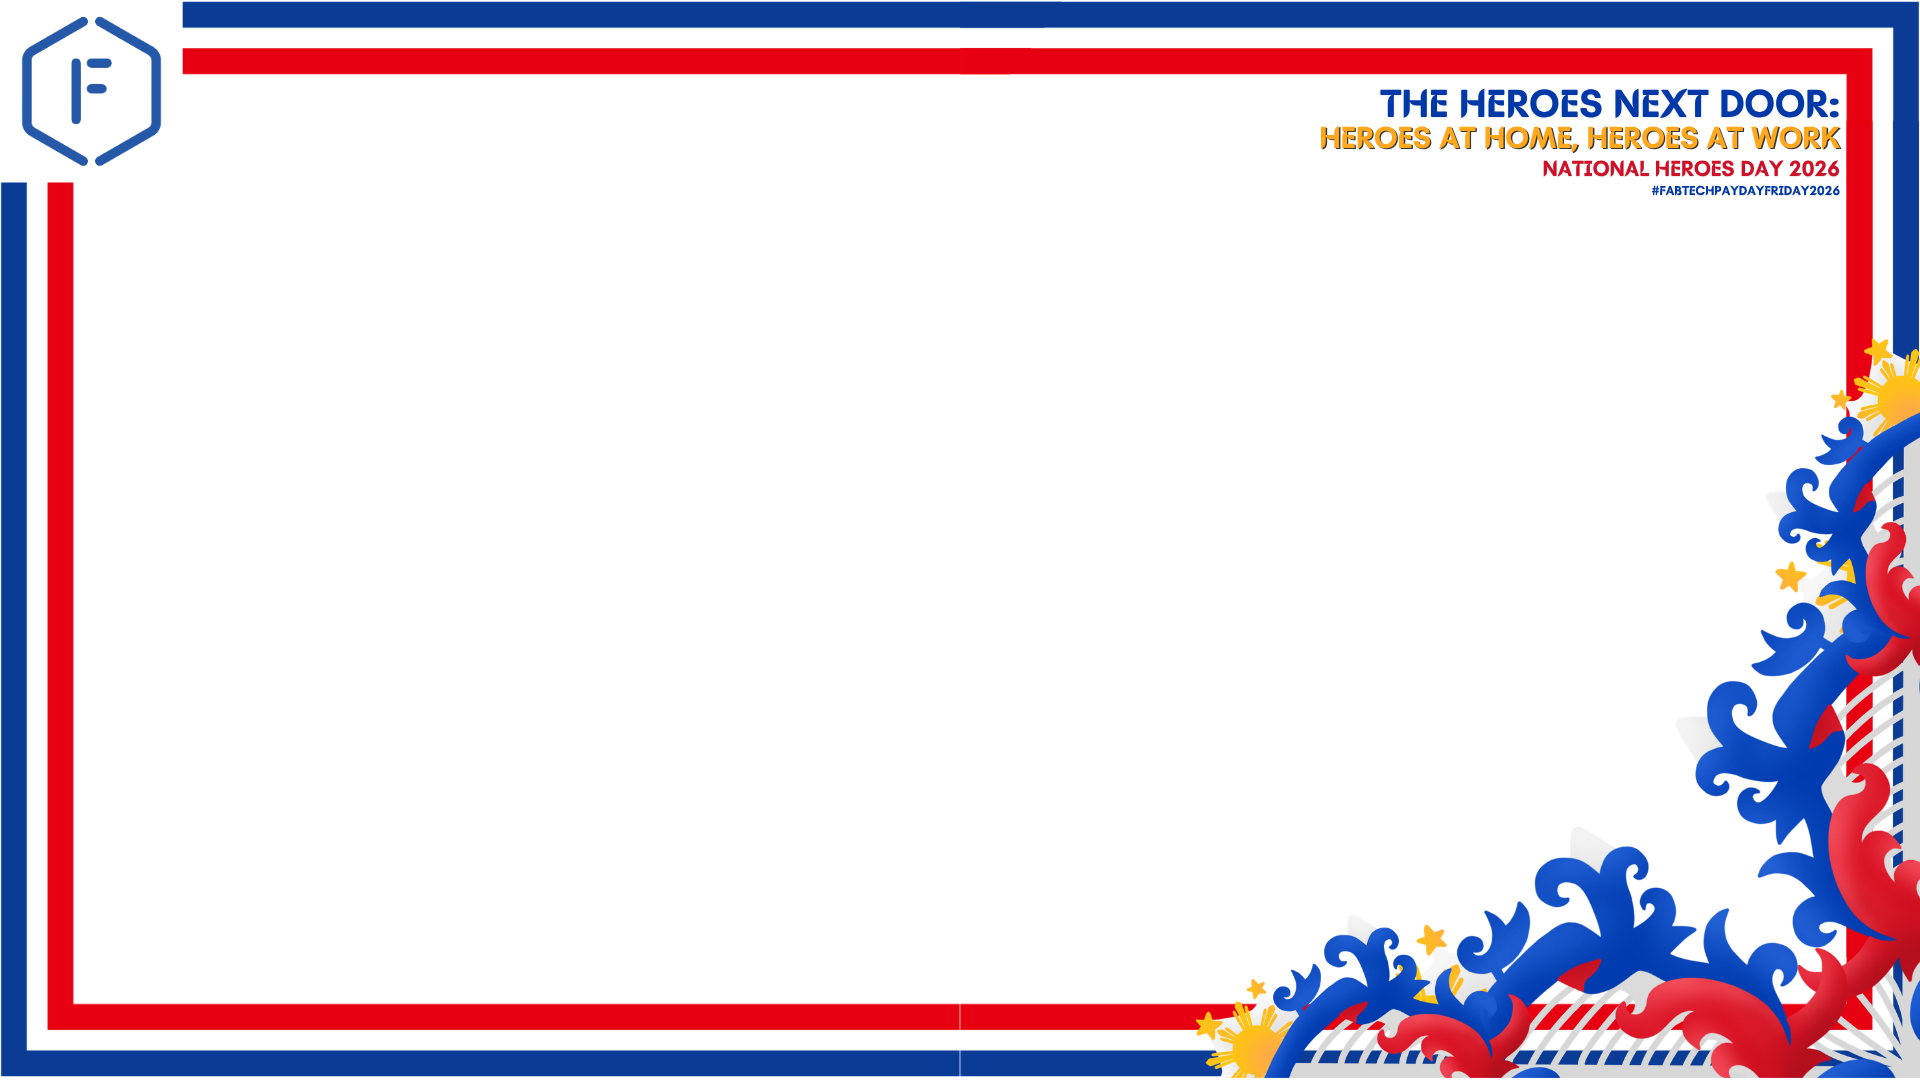
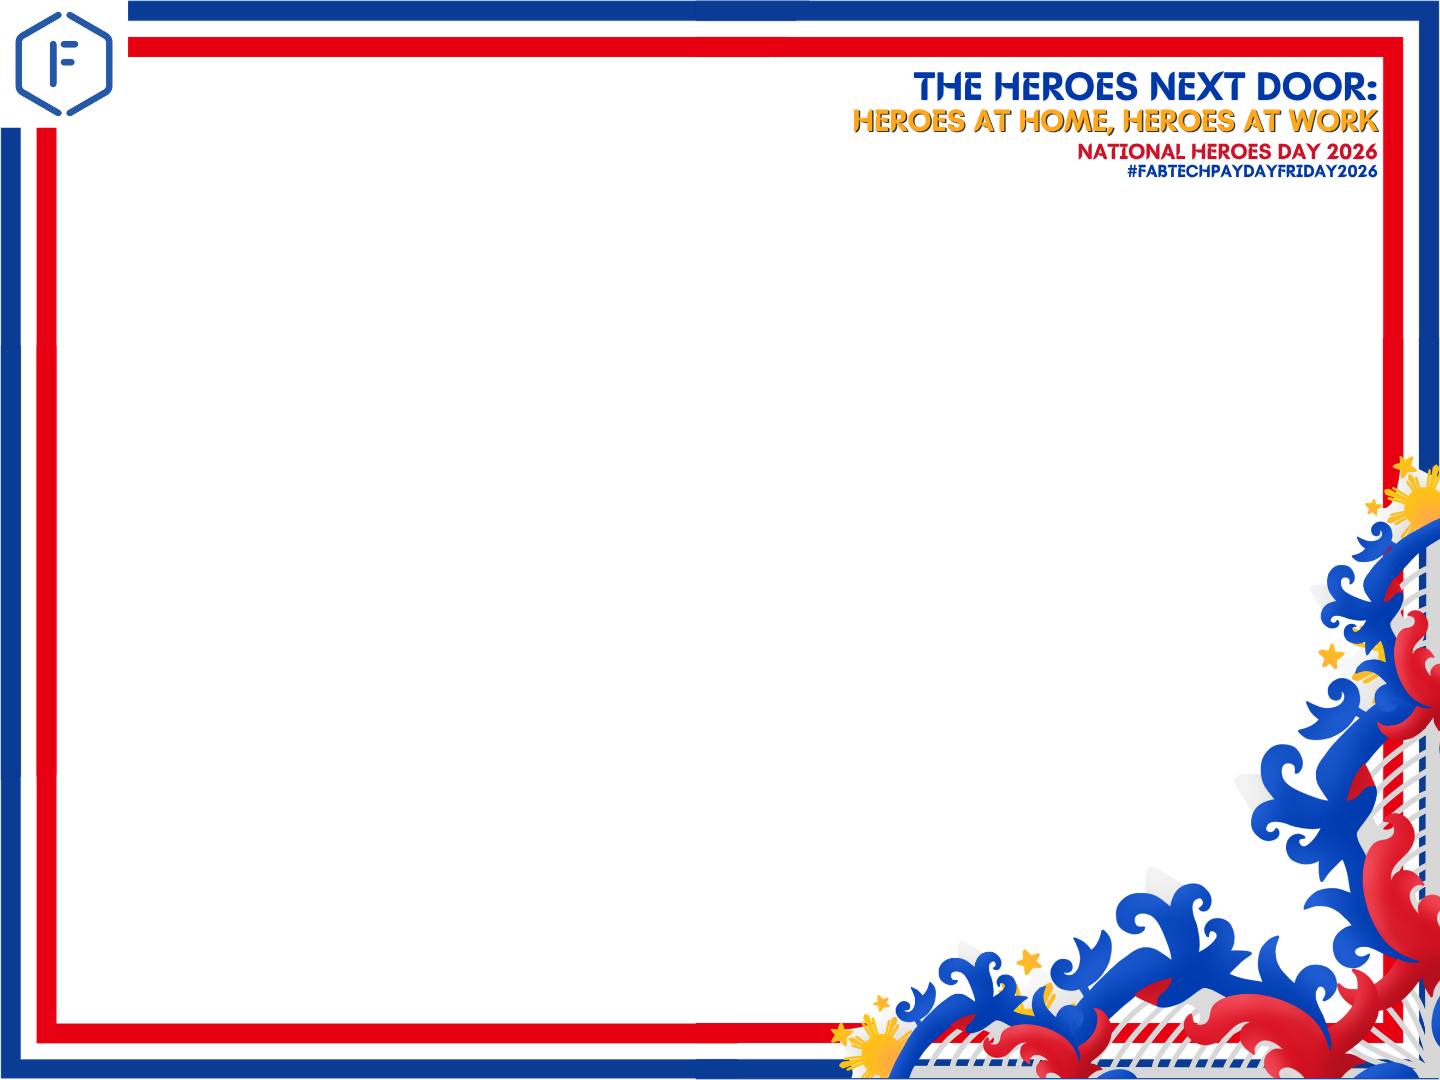
Simplify frame system and synchronize default frame state

Changed region(s): [[0.0, 0.3056, 1.0, 1.0], [0.0, 0.0, 1.0, 0.3056]]

diff --git a/js/script.js b/js/script.js
@@ -59,7 +59,6 @@ document.addEventListener("DOMContentLoaded", () => {
     const landscapeFrame = document.getElementById("landscapeFrame");
 
     const frameOverlays = {
-        square: squareFrame,
         portrait: portraitFrame,
         landscape: landscapeFrame
     };
@@ -87,6 +86,17 @@ document.addEventListener("DOMContentLoaded", () => {
             audio: false
         };
     }
+
+    // =====================================================
+    // Rendering Engine
+    // =====================================================
+    function calculateViewport(
+        videoWidth,
+        videoHeight,
+        frameMode
+    ) {
+    }
+
 
     function applyCameraMode() {
         const mode = getCurrentCameraMode();
@@ -150,25 +160,7 @@ document.addEventListener("DOMContentLoaded", () => {
     };
 
     const CAMERA_MODES = {
-        square: {
-            aspectRatio: "1 / 1",
-
-            viewport: {
-                width: 1,
-                height: 1
-            },
-
-            capture: {
-                width: 1080,
-                height: 1080
-            },
-
-            camera: {
-                width: 1080,
-                height: 1080
-            }
-        },
-
+        
         portrait: {
             aspectRatio: "3 / 4",
 
@@ -253,6 +245,19 @@ document.addEventListener("DOMContentLoaded", () => {
                 applyCameraMode();
             });
         });
+
+        // -------------------------------------
+        // Initialize from the default HTML selection
+        // -------------------------------------
+        const defaultFrame =
+            document.querySelector("[data-frame].selected");
+
+        if (defaultFrame) {
+            APP_STATE.selectedFrame = defaultFrame.dataset.frame;
+
+            updateFrameOverlay();
+            applyCameraMode();
+        }
     }
 
     function initializeCameraSelector() {

diff --git a/index.html b/index.html
@@ -76,31 +76,15 @@ Customize your photo experience before capturing your hero moment.
 
 
 <div class="options">
+    <div class="option-card selected" data-frame="portrait">
+        📱
+        <span>Portrait</span>
+    </div>
 
-
-<div class="option-card selected" data-frame="square">
-
-⬜
-
-<span>Square</span>
-
-</div>
-
-
-<div class="option-card" data-frame="portrait">
-
-▯
-
-<span>Portrait</span>
-
-</div>
-
-
-<div class="option-card" data-frame="landscape">
-    ▭
-    <span>Landscape</span>
-</div>
-
+    <div class="option-card" data-frame="landscape">
+        🔄
+        <span>Landscape</span>
+    </div>
 
 </div>
 
@@ -205,12 +189,6 @@ Continue →
             alt="Developer Preview">
 
         <!-- Frame Overlays -->
-        <img
-            id="squareFrame"
-            class="frame-overlay"
-            src="assets/frame-square.png"
-            alt="Square Frame">
-
         <img
             id="portraitFrame"
             class="frame-overlay hidden"

diff --git a/CHANGELOG.md b/CHANGELOG.md
@@ -4,18 +4,15 @@ All notable changes to this project are documented here.
 
 ---
 
-## v0.5.0 (In Progress)
+## v0.5.0 - Event Ready Capture Pipeline
 
-### Architecture
-- Replaced generic option selector with dedicated frame, camera, and countdown controllers.
-- Introduced CAMERA_MODES as the foundation for camera behavior.
-- Added getCurrentCameraMode() helper.
-- Migrated frame selection to APP_STATE-driven architecture.
+### Changed
+- Refocused the project toward an event-ready release.
+- Simplified the capture pipeline to portrait and landscape overlays.
+- Deferred advanced camera framing, multiple aspect ratios, and rendering engine work to a future release.
 
-### Internal
-- Retired initializeOptionCards().
-- Simplified selector responsibilities using the Single Responsibility Principle.
-- Prepared the codebase for the upcoming Aspect Ratio Engine.
+### Goal
+Deliver a stable and intuitive mobile photo booth for the August company event.
 
 --
 

diff --git a/docs/architecture.md b/docs/architecture.md
@@ -211,3 +211,11 @@ As the project evolves, additional modules may include:
 - Template Management
 
 The current architecture is intentionally designed to accommodate future expansion without major restructuring.
+
+---
+
+## Current Release Scope
+
+The August Event Release uses a single camera preview with selectable portrait and landscape frame overlays.
+
+Advanced rendering, dynamic camera ratios, and smart viewport calculations have been intentionally postponed until after the event to prioritize stability and delivery.